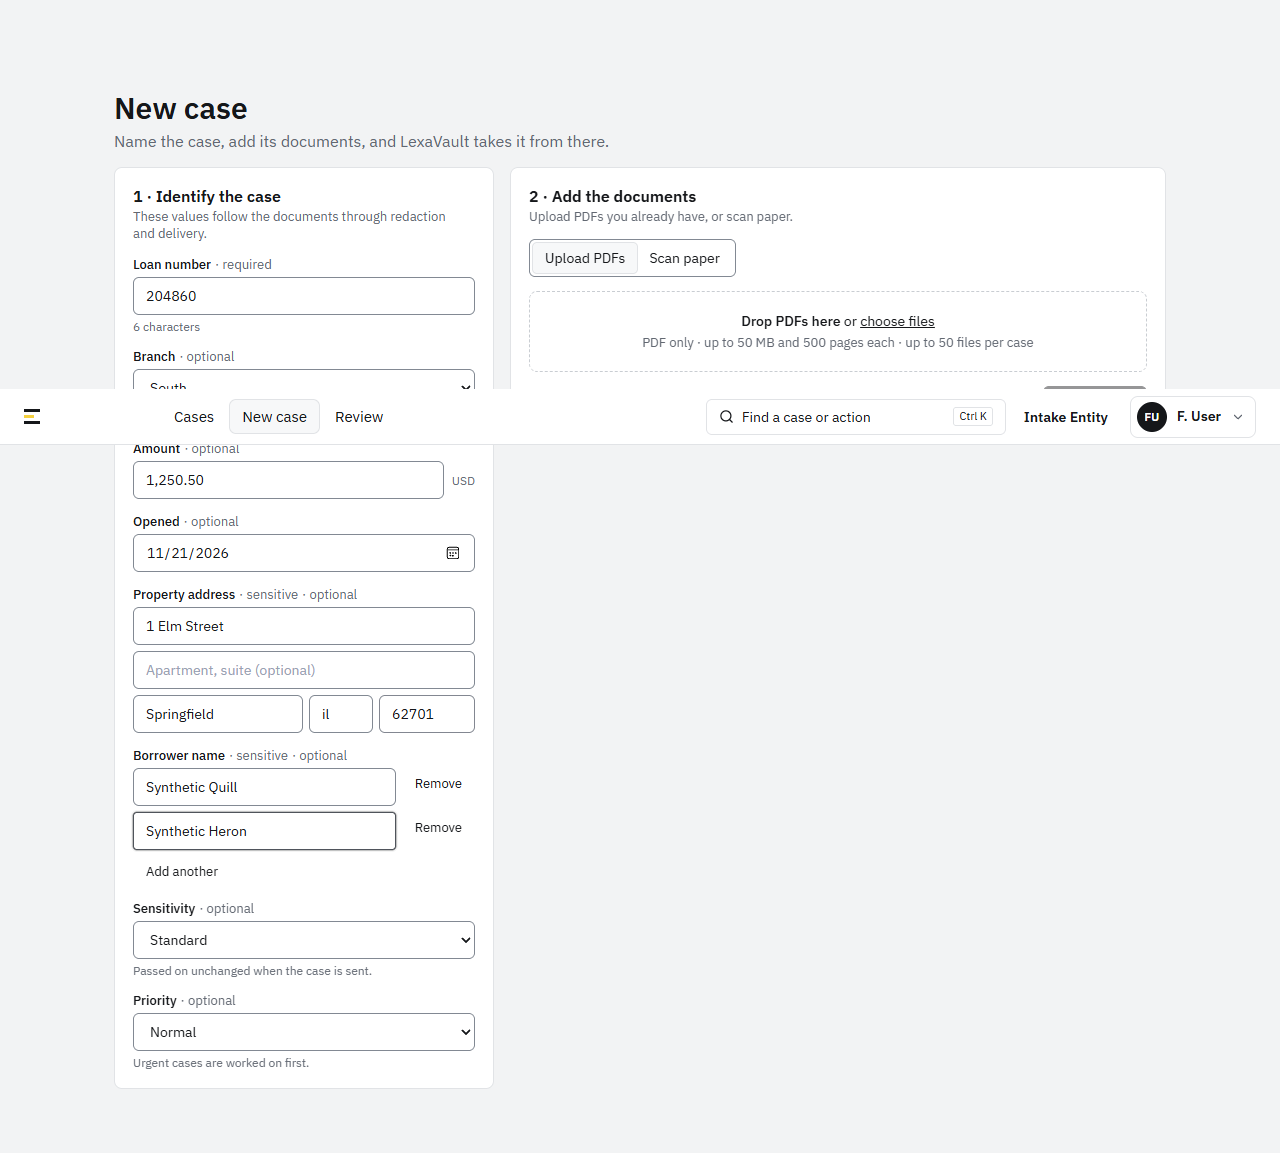
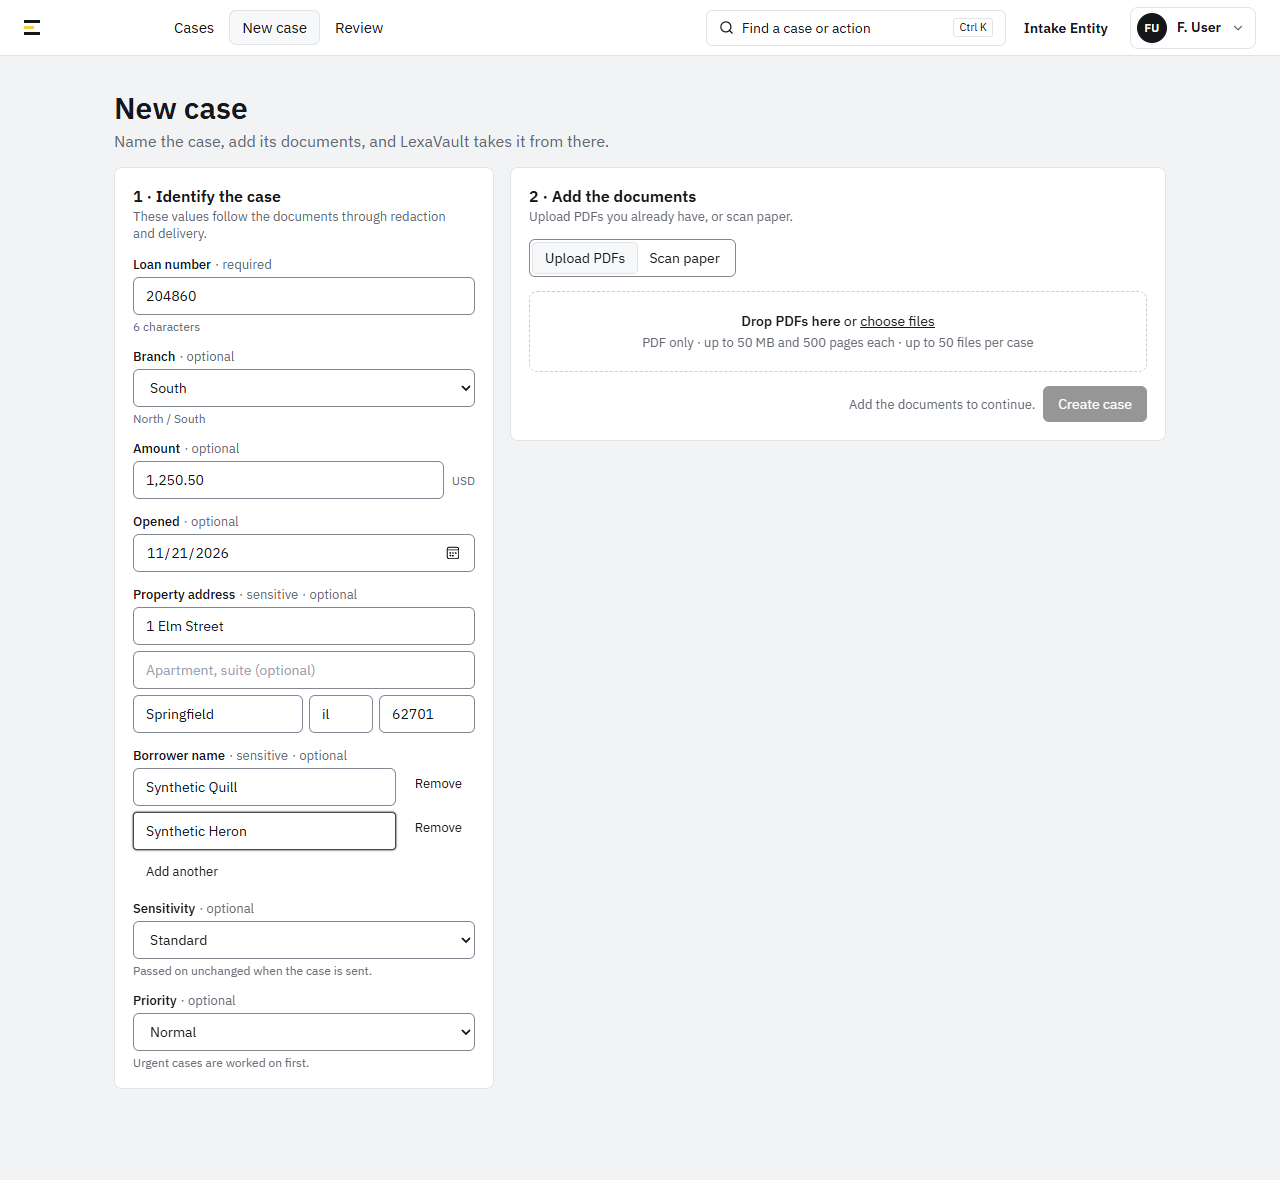
test: the capability and code counts of the frontend checks; proof pictures

diff --git a/frontend/securedoc-ui/src/studio/lvCodes.test.ts b/frontend/securedoc-ui/src/studio/lvCodes.test.ts
@@ -79,7 +79,7 @@ test('0025: the no-access heading is the title and code only; LV-AUT-002 when th
 });
 
 test('task 0026: 137 codes (139 with LV-INT-028 and 029 of task 0038); the 8 new ones and their mappings come from the registry', () => {
-  assert.equal(Object.keys(LV_CODES).length, 155); // task 0076: + LV-REV-015; task 0071: + LV-REV-010 to 014; // task 0063: + LV-INT-036 and 037; task 0044: + LV-RED-005; task 0053: + LV-PRC-010; task 0064: + LV-AI-008
+  assert.equal(Object.keys(LV_CODES).length, 160); // task 0076: + LV-REV-015; task 0071: + LV-REV-010 to 014; // task 0063: + LV-INT-036 and 037; task 0044: + LV-RED-005; task 0053: + LV-PRC-010; task 0064: + LV-AI-008
   assert.equal(LV_BY_DETAIL.REDACTION_VALUE_IN_OUTPUT_TEXT, 'LV-RED-005');
   for (const code of ['LV-INT-035', 'LV-SCN-019', 'LV-SCN-020', 'LV-SCN-021', 'LV-REV-009', 'LV-CFG-011', 'LV-SYS-008', 'LV-SYS-009']) {
     assert.ok(LV_CODES[code], code);

diff --git a/frontend/securedoc-ui/e2e-oidc/policyCapabilities.ts b/frontend/securedoc-ui/e2e-oidc/policyCapabilities.ts
@@ -10,7 +10,7 @@
  * "Include full audit trail"); COMPLIANCE_REPORT_SUMMARY creates the summary only. The server checks this in
  * ComplianceReportController, not by granting the IT Administrator a second capability.
  */
-const PROCESSOR = ['DASHBOARD_ACCESS', 'DOCUMENT_INTAKE', 'MANUAL_REVIEW', 'FINDING_DECISION', 'REDACTION_ADJUST', 'REVIEW_SUBMIT',
+const PROCESSOR = ['DASHBOARD_ACCESS', 'DOCUMENT_INTAKE', 'CASE_FIELD_SENSITIVE_VIEW', 'MANUAL_REVIEW', 'FINDING_DECISION', 'REDACTION_ADJUST', 'REVIEW_SUBMIT',
   'EXPORT_RESEND'];
 const REPORT_READ = ['REPORT_EXECUTIVE_VIEW', 'REPORT_OPERATIONAL_VIEW'];
 
